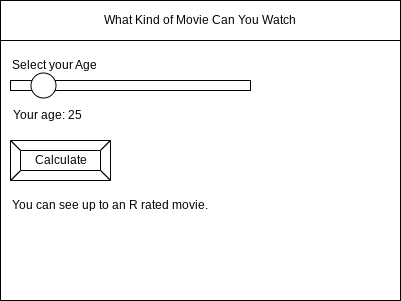
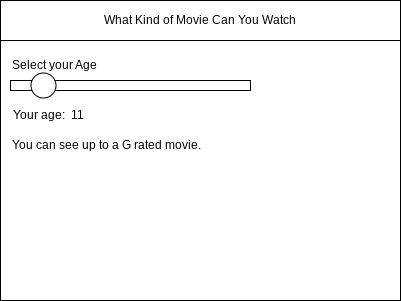
js

Changed region(s): [[0.0, 0.4485, 0.5087, 0.6279], [0.0299, 0.6578, 0.5087, 0.7176], [0.1496, 0.3588, 0.2095, 0.4186]]

diff --git a/js/script.js b/js/script.js
@@ -19,21 +19,15 @@ if (navigator.serviceWorker) {
  * This function updates the slider value.
  */
 function updateSliderValue(valueFromSlider) {
-  document.getElementById("slider-value").innerHTML = valueFromSlider
-}
+  document.getElementById("slider-value").innerHTML = "Your age: " + valueFromSlider
 
-/**
- * This function displays an alert.
- */
-function myButtonClicked() {
-  document.getElementById("slider").value = age
-  if (age > 13) {
+  if (valueFromSlider > 13) {
     document.getElementById("movie-rating").innerHTML =
       "You can see up to an r rated movie."
-  } else if (age == 13) {
+  } else if (valueFromSlider == 13) {
     document.getElementById("movie-rating").innerHTML =
       "You can see up to a Pg 13 rated movie."
-  } else if (age < 13) {
+  } else if (valueFromSlider < 13) {
     document.getElementById("movie-rating").innerHTML =
       "You can see up to a G 13 rated movie."
   }

diff --git a/index.html b/index.html
@@ -57,7 +57,6 @@
       <main class="mdl-layout__content">
         <br />
         <p>Select your age:</p>
-        <br />
         <!-- Slider with Starting Value -->
         <!-- Note: I added and ID to this component, so I could reference it in code -->
         <!-- Note: I also placed it inside a "label" for accessability -->
@@ -76,13 +75,6 @@
         </label>
         <br />
         <div id="slider-value">Your age: ?</div>
-        <!-- Raised button with ripple -->
-        <button
-          class="mdl-button mdl-js-button mdl-button--raised mdl-js-ripple-effect mdl-button--accent"
-          onclick="myButtonClicked()"
-        >
-          Calculate
-        </button>
         <br />
         <div id="movie-rating"></div>
       </main>
